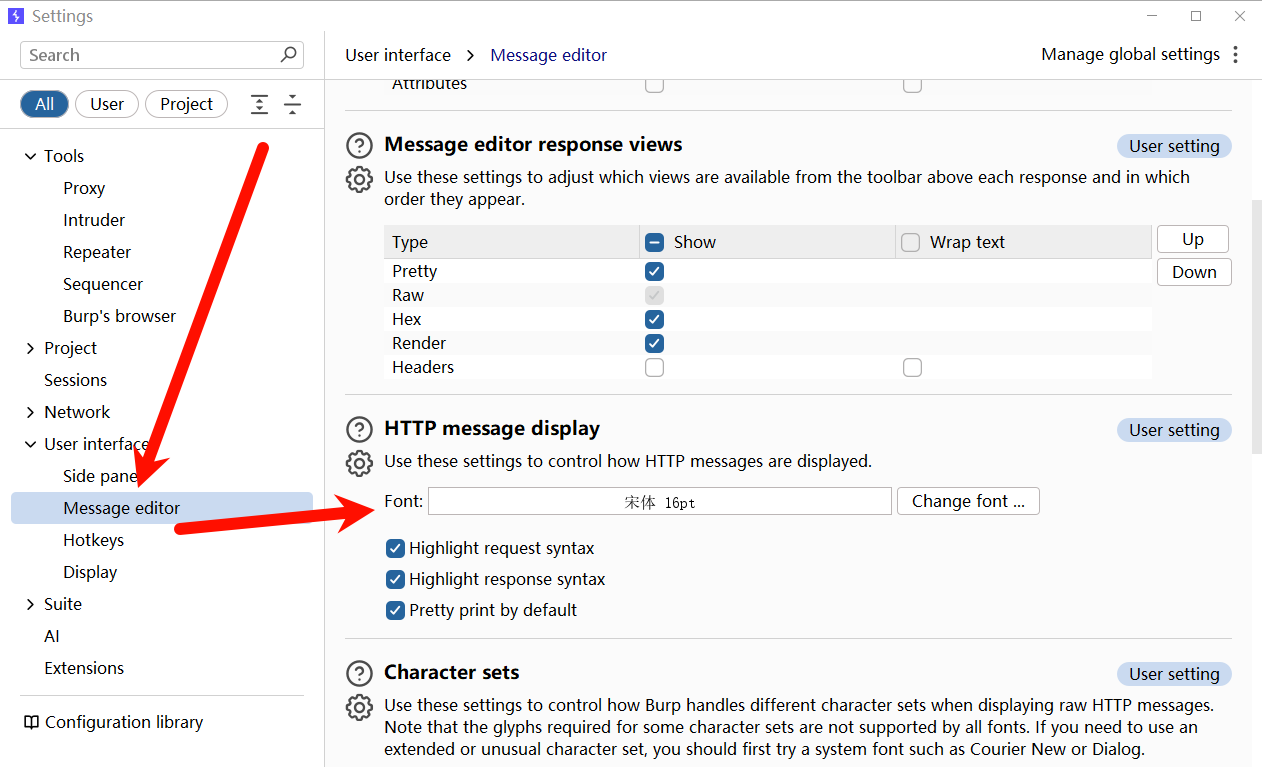
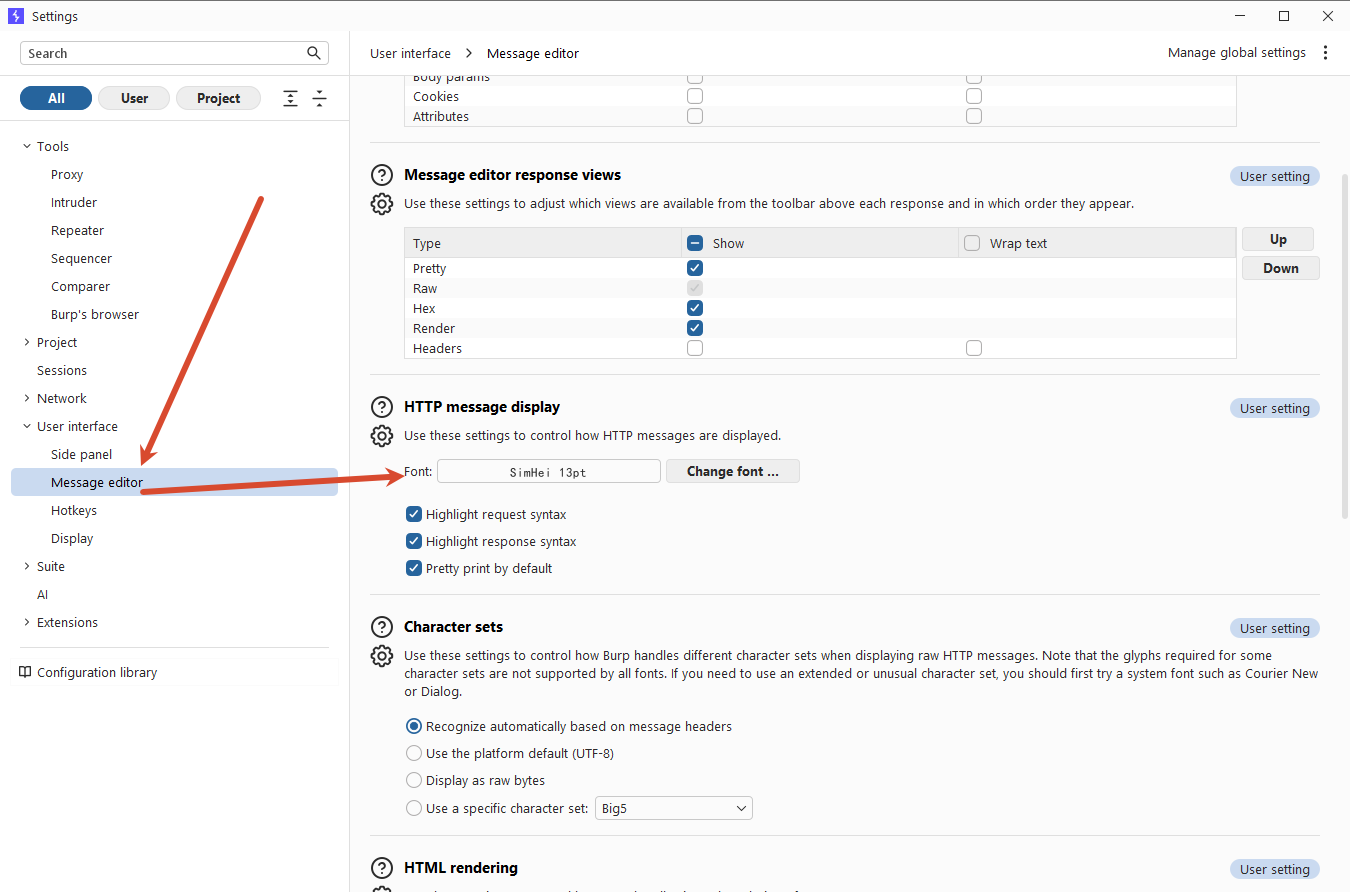
Add new documentation for access control, access keys, race conditions, and Yakit; update SQL injection examples and fix image formatting in Burp Suite documentation.

diff --git a/docs/Misc/Resource Sharing/Access Control.md b/docs/Misc/Resource Sharing/Access Control.md
@@ -1,0 +1,96 @@
+Access control is the application of constraints on who or what is authorized to perform actions or access resources. In the context of web applications, access control is dependent on authentication and session management:
+
+- **Authentication** confirms that the user is who they say they are.
+- **Session management** identifies which subsequent HTTP requests are being made by that same user.
+- **Access control** determines whether the user is allowed to carry out the action that they are attempting to perform.
+
+Broken access controls are common and often present a critical security vulnerability. Design and management of access controls is a complex and dynamic problem that applies business, organizational, and legal constraints to a technical implementation. Access control design decisions have to be made by humans so the potential for errors is high.
+
+## 1. Principle
+
+目标的权限配置不够完善造成越权或未授权
+
+### 1.1. Location
+
+需要隔离权限的访问
+
+## 2. Test
+
+### 2.1. Unprotected
+
+目标存在隐藏的控制面板未作校验即可访问
+
+### 2.2. Request Parameter
+
+通过修改请求参数实现越权
+
+```
+Cookie: Admin=true; session=MOp4UbKnwySqBZrJQb3cyHxYKSlY8G2e
+```
+
+### 2.3. User Profile
+
+在响应包中发现了隐藏参数 `"roleid":1` , 添加到请求包中并修改为 `"roleid":2` 可实现越权
+
+### 2.4. User ID
+
+通过修改 UID 实现越权
+
+```
+https://web-security-academy.net/my-account?id=carlos
+```
+
+### 2.5. Unpredictable User IDs
+
+UUID 不可预测, 可尝试通过访问与目标相关的页面查找泄露的 UUID 
+
+```
+https://web-security-academy.net/blogs?userId=13eafe6b-685d-4a62-897e-4135a70cee9a
+```
+
+### 2.6. Data Leakage in Redirect
+
+依然是修改 UID, 但是若登录信息不匹配会跳转到登录界面, 可使用 `Repeater` 发包在跳转前获取信息
+
+```
+https://web-security-academy.net/my-account?id=carlos
+```
+
+### 2.7. Password Disclosure
+
+目标用户主页可访问, 密码隐藏在界面中
+
+```
+<input required type=password name=password value='95plcdbbjecafn6gfwfq'/>
+```
+
+### 2.8. Insecure Direct Object References
+
+可越权下载其它用户的敏感信息
+
+```
+https://web-security-academy.net/download-transcript/1.txt
+```
+
+### 2.9. 403 Bypass
+
+使用 HTTP Header 伪造绕过 403
+
+### 2.10. Change Request Method
+
+通过修改 Change request method 越权访问
+
+### 2.11. Multi-Step
+
+多步骤的请求越权
+
+### 2.12. Referer-Based
+
+需要跳转的请求越权
+
+---
+
+**References**
+
+- [Access control](https://portswigger.net/web-security/access-control)
+- [CWE-284](https://hackerone.com/hacktivity/cwe_discovery?id=cwe-284)

diff --git a/docs/Web/MITM/Burp Suite.md b/docs/Web/MITM/Burp Suite.md
@@ -40,7 +40,9 @@
 
 修改 HTTP 消息显示字体
 
-![](./../../../images/Burp_Suite/%E4%BF%AE%E6%94%B9%20HTTP%20%E6%B6%88%E6%81%AF%E6%98%BE%E7%A4%BA%E5%AD%97%E4%BD%93.png)
+![修改 HTTP 消息显示字体](./../../../images/Burp_Suite/%E4%BF%AE%E6%94%B9%20HTTP%20%E6%B6%88%E6%81%AF%E6%98%BE%E7%A4%BA%E5%AD%97%E4%BD%93.png)
+
+> 英文推荐 Consolas, 中文推荐 SimHei
 
 ### 2.1. Proxy
 
@@ -79,9 +81,19 @@ Refences
 
 - [Username enumeration via subtly different responses](https://portswigger.net/web-security/authentication/password-based/lab-username-enumeration-via-subtly-different-responses)
 
-### 2.3. Sessions
+## 2.3. Repeater
 
-### 2.3.1. Macros
+Repeater 中有三种 Group send options
+
+```
+Send group in sequence (single connection)    # 单线程逐个发送
+Send group in sequence (separate connections) # 多线程逐个发送
+Send group in parallel (single-packet attack) # 多线程同步发送
+```
+
+### 2.4. Sessions
+
+### 2.4.1. Macros
 
 用于从其它页面提取数据, 配置到 Sessions 后即可在所有会话中使用, 注意不要添加测试页面
 

diff --git a/docs/Misc/Resource Sharing/Race Conditions.md b/docs/Misc/Resource Sharing/Race Conditions.md
@@ -1,0 +1,22 @@
+Race conditions are a common type of vulnerability closely related to business logic flaws. They occur when websites process requests concurrently without adequate safeguards. This can lead to multiple distinct threads interacting with the same data at the same time, resulting in a "collision" that causes unintended behavior in the application. A race condition attack uses carefully timed requests to cause intentional collisions and exploit this unintended behavior for malicious purposes.
+
+## 1. Principle
+
+通过并发绕过限制次数
+
+### 1.1. Location
+
+限制了次数的位置如: 抽奖\优惠\限购
+
+## 2. Test
+
+### 2.1. Limit Overrun
+
+目标限制优惠次数为一次, 可在 `Repeater` 中使用 `Send group (parallel)` 突破限制
+
+---
+
+**References**
+
+- [Race conditions](https://portswigger.net/web-security/race-conditions)
+- [CWE-366](https://hackerone.com/hacktivity/cwe_discovery?id=cwe-366)

diff --git a/docs/Web/Recon/Fingerprint/WAF/wafw00f.md b/docs/Web/Recon/Fingerprint/WAF/wafw00f.md
@@ -2,18 +2,11 @@ Identify and fingerprint Web Application Firewall products.
 
 ## 1. Usage
 
-识别单个目标使用的 WAF
+识别目标使用的 WAF
 
 ```
 ┌──(root㉿kali)-[~]
-└─$ wafw00f -a https://example.com -o ~/wafw00f_example.com.txt
-```
-
-识别多个目标使用的 WAF
-
-```
-┌──(root㉿kali)-[~]
-└─$ wafw00f -a -i ~/url.txt -o ~/wafw00f_url.txt
+└─$ wafw00f -a https://example.com
 ```
 
 ---

diff --git a/docs/Misc/Lab_Env/OS/Computer/Windows.md b/docs/Misc/Lab_Env/OS/Computer/Windows.md
@@ -320,6 +320,7 @@ Shut down, Take Snapshot: `deploy`
 |        [VLC media player](https://www.videolan.org/)         |
 |     [Visual Studio Code](https://code.visualstudio.com/)     |
 |   [WindowsTerminal](https://github.com/microsoft/terminal)   |
+|                 [Yakit](https://yaklang.io/)                 |
 
 ## 6. Usage
 

diff --git a/docs/Web/MITM/Yakit.md b/docs/Web/MITM/Yakit.md
@@ -1,0 +1,23 @@
+Cyber Security ALL-IN-ONE Platform.
+
+## 1. Install
+
+安装到指定目录
+
+```
+C:\Users\null\AppData\Local\Programs\Yakit
+```
+
+## 2. Init
+
+打开 MITM 手动安装证书
+
+在插件仓库中执行一键下载
+
+安装靶场
+
+---
+
+**References**
+
+- [Yakit](https://yaklang.io/)

diff --git a/docs/Misc/Resource Sharing/XSS.md b/docs/Misc/Resource Sharing/XSS.md
@@ -60,7 +60,7 @@ Host: example.com
 若无法弹窗验证或者控制台验证可以尝试组合 CSRF 使用
 
 ```
-<img src="http://example.com/logout">
+<img/src/onerror=fetch("http://example.com")>
 ```
 
 ### 1.4. 常用触发事件

diff --git a/docs/Web/Recon/Port/naabu.md b/docs/Web/Recon/Port/naabu.md
@@ -15,7 +15,7 @@ Fast port scanner with a focus on reliability and simplicity.
 
 ```
 ┌──(root㉿kali)-[~]
-└─# naabu -Pn -host <host> -o ~/results.txt
+└─# naabu -Pn -host <HOST> -o ~/results.txt
 ```
 
 ---

diff --git a/docs/Web/Recon/Port/masscan.md b/docs/Web/Recon/Port/masscan.md
@@ -6,7 +6,7 @@ TCP port scanner.
 
 ```
 ┌──(root㉿kali)-[~]
-└─$ masscan -p- <host>
+└─$ masscan -p- <HOST>
 ```
 
 ---
